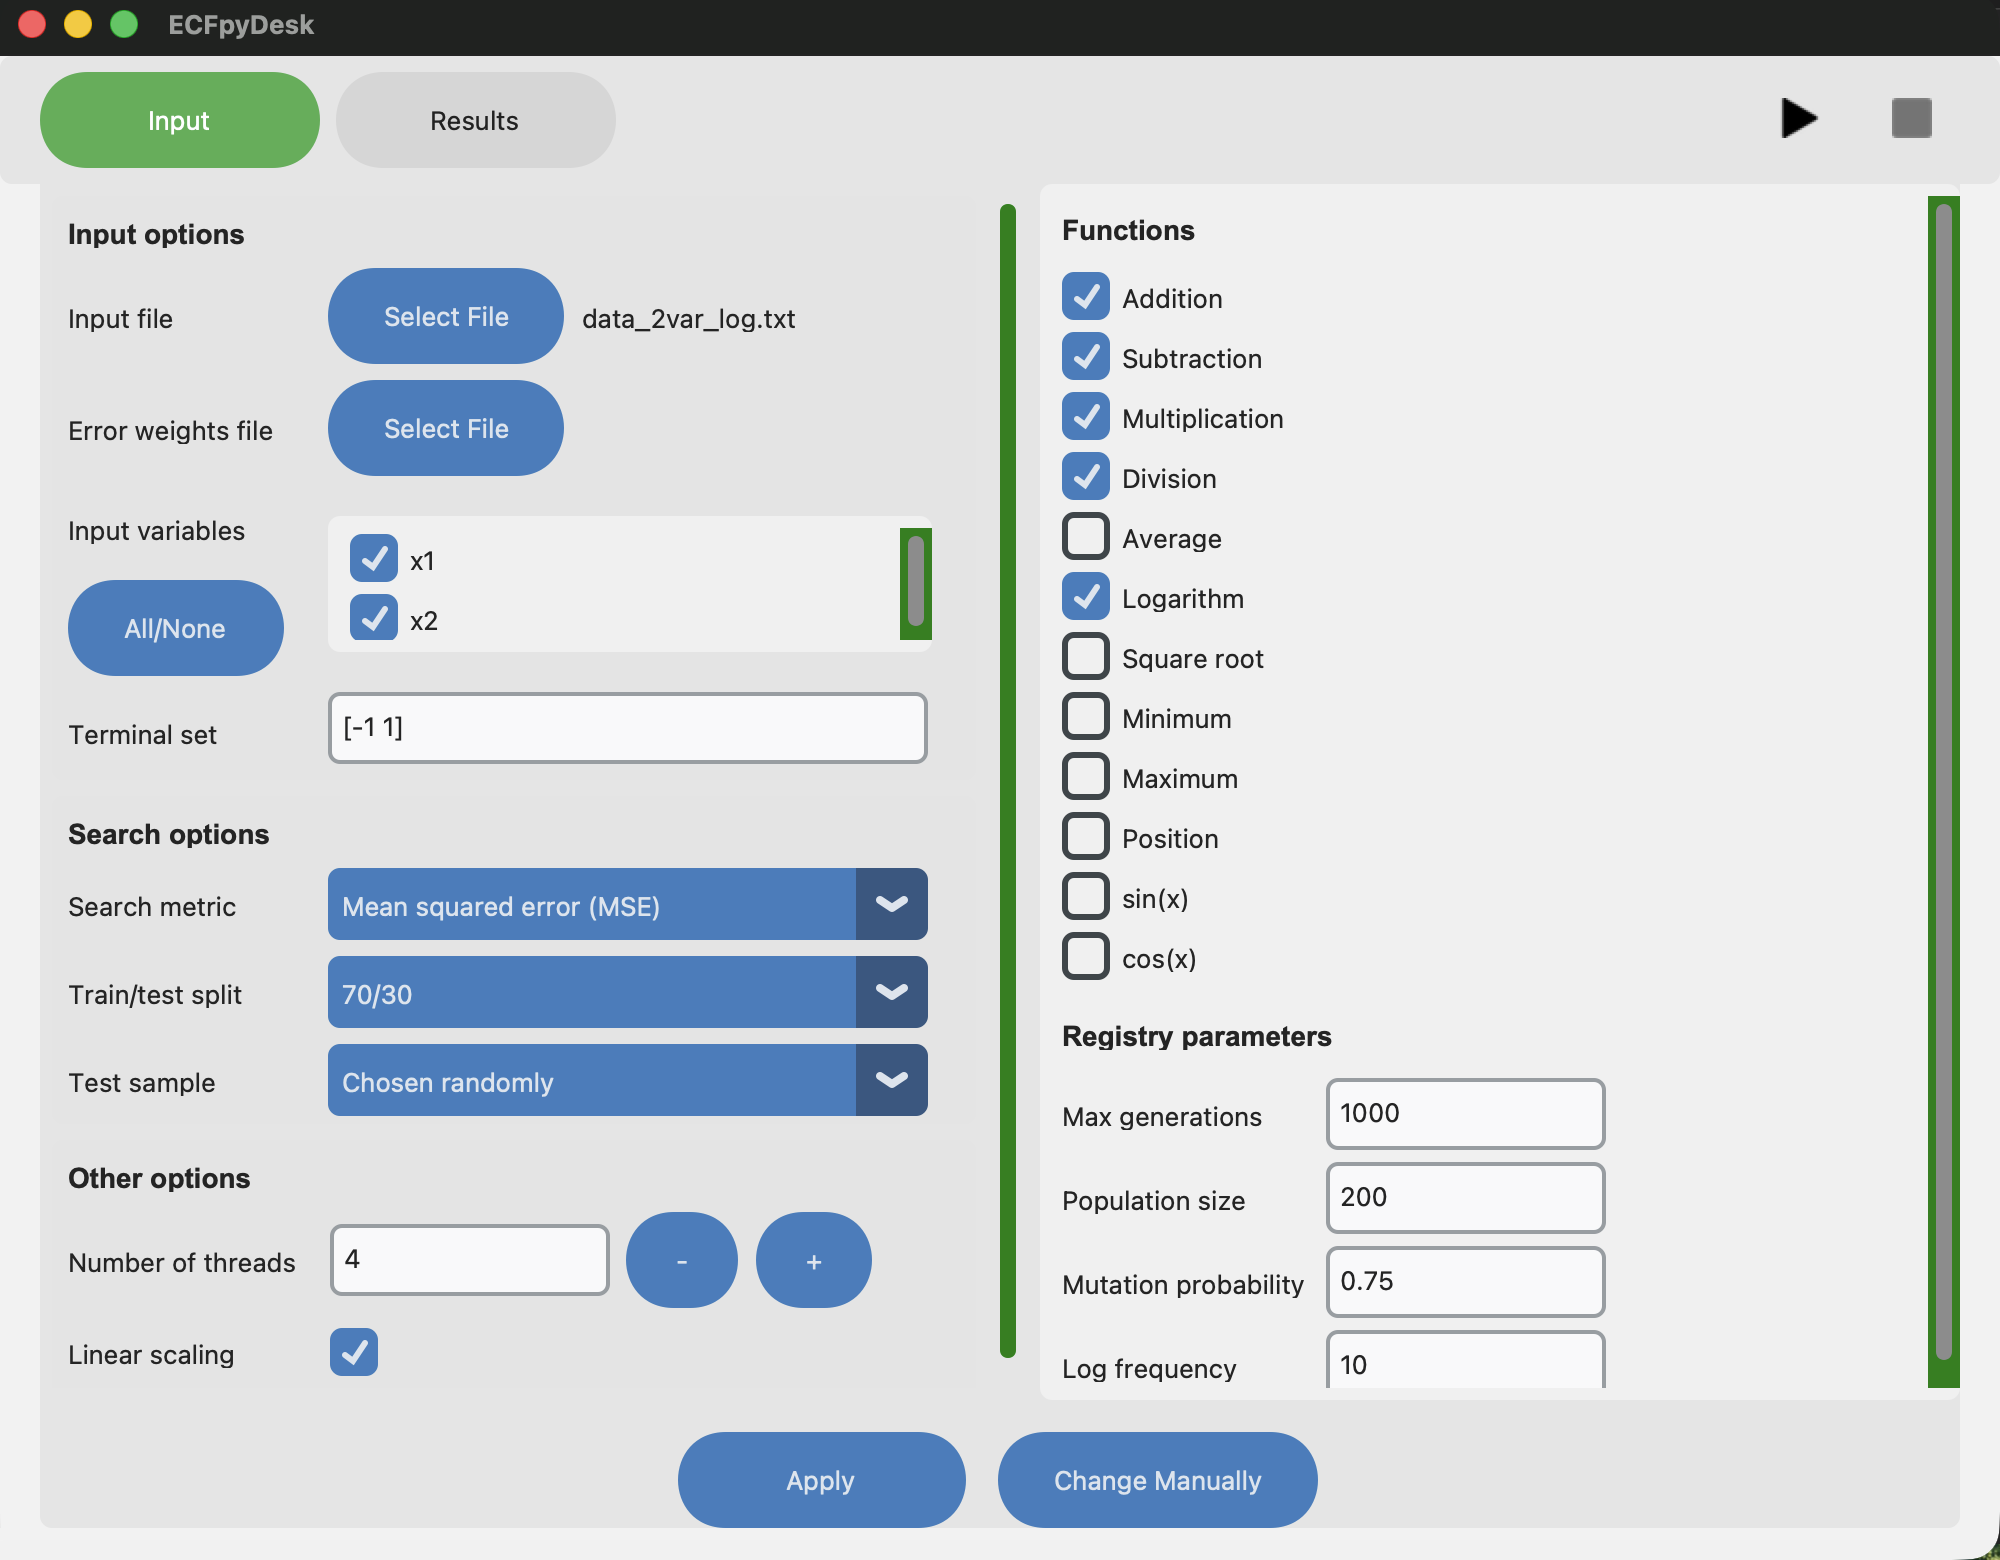
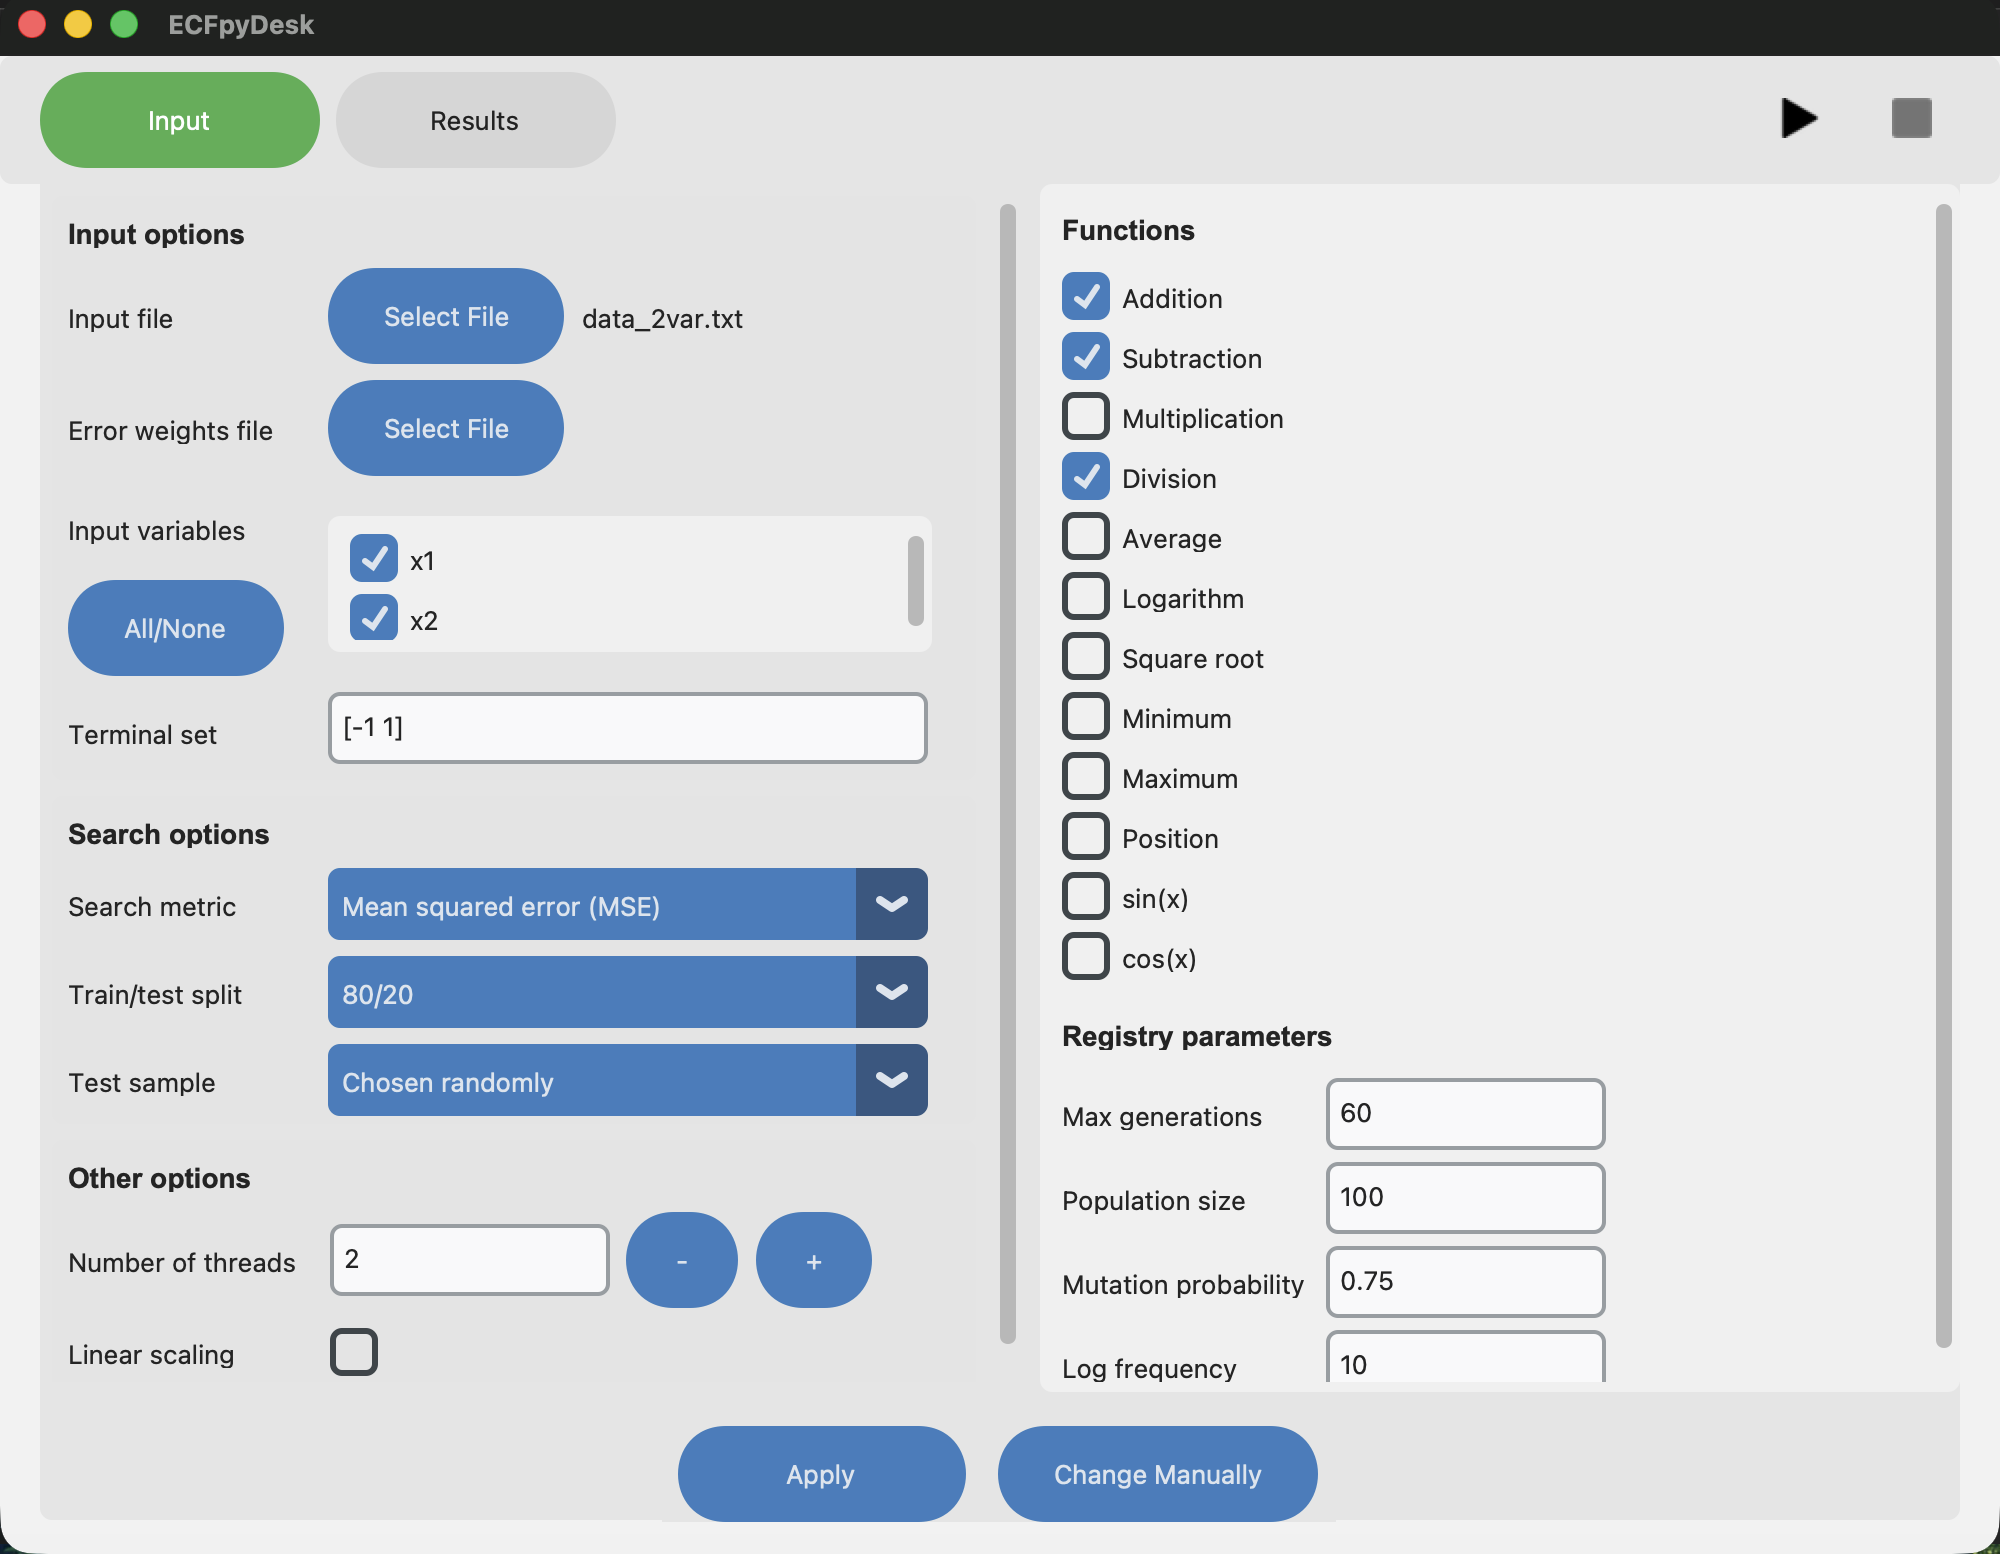
Docs: retake images on a harder setup; soften the scrollbar track

diff --git a/views/input.py b/views/input.py
@@ -33,7 +33,7 @@ class InputView(BaseView):
         self.grid_rowconfigure(3, weight=1)      # and the spare height
         # The cards sit in a scrollable column so the screen stays usable in a small window
         self.left_column = ctk.CTkScrollableFrame(self, width=470, height=200, fg_color="transparent",
-                                                  scrollbar_button_color=self.SCROLLBAR_COLOR)
+                                                  scrollbar_button_color=self.SCROLLBAR_COLOR, scrollbar_button_hover_color=self.SCROLLBAR_HOVER)
         self.left_column.grid(row=0, column=0, rowspan=4, sticky="ns", padx=(0, self.PAD), pady=(0, self.PAD))
         self.left_column.grid_columnconfigure(0, weight=1)
 
@@ -74,7 +74,7 @@ class InputView(BaseView):
         button = self.create_button(frame, "All/None", self.toggle_variables, tooltip="all_none")
         button.grid(row=start_row+1, column=0, sticky='nw', padx=self.PAD, pady=self.PAD // 2)
 
-        self.terminal_scroll_frame = ctk.CTkScrollableFrame(frame, width=self.DROPDOWN_WIDTH - 20, height=56, scrollbar_fg_color=self.SCROLLBAR_COLOR, fg_color=self.LIST_COLOR)
+        self.terminal_scroll_frame = ctk.CTkScrollableFrame(frame, width=self.DROPDOWN_WIDTH - 20, height=56, scrollbar_fg_color="transparent", scrollbar_button_color=self.SCROLLBAR_COLOR, scrollbar_button_hover_color=self.SCROLLBAR_HOVER, fg_color=self.LIST_COLOR)
         self.terminal_scroll_frame._scrollbar.configure(height=0)
         self.terminal_scroll_frame.grid(row=start_row, column=1, rowspan=2, sticky="w", padx=self.PAD, pady=self.PAD // 2)
         add_tooltip(variables_label, "variables")
@@ -112,7 +112,7 @@ class InputView(BaseView):
             self.setup_dropdown(frame, variable_name, label, choices, idx+1, 1)
 
     def setup_parameters_scroll_area(self):
-        self.scroll_frame = ctk.CTkScrollableFrame(self, width=300, height=300, scrollbar_fg_color=self.SCROLLBAR_COLOR, fg_color=self.LIST_COLOR)
+        self.scroll_frame = ctk.CTkScrollableFrame(self, width=300, height=300, scrollbar_fg_color="transparent", scrollbar_button_color=self.SCROLLBAR_COLOR, scrollbar_button_hover_color=self.SCROLLBAR_HOVER, fg_color=self.LIST_COLOR)
         self.scroll_frame.grid(row=0, column=1, rowspan=4, sticky="nsew", pady=(0, self.PAD))
         self.scroll_frame.grid_columnconfigure(0, weight=0)
         self.scroll_frame.grid_columnconfigure(1, weight=1)

diff --git a/views/results.py b/views/results.py
@@ -53,7 +53,7 @@ class ResultsView(BaseView):
             self.header_frame.columnconfigure(i, weight=self.COLUMN_WEIGHTS[i], uniform="Silent_Creme")
 
         # Setup scrollable list frame for displaying solutions
-        self.solutions_list_frame = ctk.CTkScrollableFrame(self.solutions_master_frame, width=300, height=200, scrollbar_fg_color=self.SCROLLBAR_COLOR, fg_color=self.LIST_COLOR)
+        self.solutions_list_frame = ctk.CTkScrollableFrame(self.solutions_master_frame, width=300, height=200, scrollbar_fg_color="transparent", scrollbar_button_color=self.SCROLLBAR_COLOR, scrollbar_button_hover_color=self.SCROLLBAR_HOVER, fg_color=self.LIST_COLOR)
         self.solutions_list_frame.grid(row=1, column=0, sticky="nsew", padx=self.PAD, pady=(0, self.PAD))
         for i, weight in enumerate(self.COLUMN_WEIGHTS):
             self.solutions_list_frame.grid_columnconfigure(i, weight=weight, uniform="Silent_Creme")

diff --git a/views/base.py b/views/base.py
@@ -84,7 +84,8 @@ class BaseView(ctk.CTkFrame, Publisher):
     ENTRY_WIDTH = 140
     CARD_COLOR = "#e4e4e4"
     LIST_COLOR = "#f0f0f0"
-    SCROLLBAR_COLOR = "#008000"
+    SCROLLBAR_COLOR = "#b8b8b8"   # the handle; the track is transparent, so it blends with its frame
+    SCROLLBAR_HOVER = "#9a9a9a"
 
     def __init__(self, parent):
         ctk.CTkFrame.__init__(self, parent)

diff --git a/docs/user-guide.md b/docs/user-guide.md
@@ -73,18 +73,18 @@ The folder `srm/` has three sample files:
 | `data_2var.txt` | `x1`, `x2` | `x1 * x2` |
 | `data_2var_log.txt` | `x1`, `x2` | `log(x1) / log(x2)` |
 
-We use `data_2var_log.txt`: 15 rows, small enough to run fast, and not trivial. (In the packaged app, the sample data is inside the app bundle; you can also copy the file from the repository. Any file in the format above works.)
+We use `data_2var.txt`: 100 rows, target `x1 * x2`. To make the search interesting we take away the easy answer: the pictures below come from a deliberately hard setup in which multiplication is switched off, so no expression can reproduce the data exactly and the Pareto front shows a real trade-off. (With multiplication available, this sample is easy, and so is the 15-row `data_2var_log.txt`: both get an exact answer within seconds.) In the packaged app, the sample data is inside the app bundle; you can also copy the files from the repository. Any file in the format above works.
 
 ### Step 1: set up the Input screen
 
 ![The Input screen](images/input.png)
 
-1. **Input file → Select File**, and pick `data_2var_log.txt`. The file name appears next to the button, and one checkbox per variable (`x1`, `x2`) appears under **Input variables**. Both are ticked.
+1. **Input file → Select File**, and pick `data_2var.txt`. The file name appears next to the button, and one checkbox per variable (`x1`, `x2`) appears under **Input variables**. Both are ticked.
 2. **Terminal set** holds the constants an expression may use besides the ticked variables. `[-1 1]` means random constants between -1 and 1. Leave it.
-3. **Search options.** Leave **Search metric** on mean squared error. Set **Train/test split** to **70/30**: the search sees 70% of the rows, and the remaining 30% (the *test set*) is kept to judge the results. **Test sample → Chosen randomly** picks those rows at random.
-4. **Number of threads** is the number of SRM processes that run side by side, each searching on its own. Set it to the number of CPU cores you want to use (the **+** button stops at the number your machine has).
-5. On the right, under **Functions**, tick the operations expressions may use. The defaults (addition, subtraction, multiplication, division, logarithm) are what this data needs. Under **Registry parameters** are the search settings: **Max generations**, **Population size**, **Mutation probability** and **Log frequency**. A smaller population makes a run faster but less thorough.
-6. Leave **Linear scaling** on. It fits a scale and an offset to every expression, so you see expressions such as `0.33 + -0.33 * (...)`. It needs addition and multiplication in the function set, and the app tells you if they are missing.
+3. **Search options.** Leave **Search metric** on mean squared error. Set **Train/test split** to **80/20**: the search sees 80% of the rows, and the remaining 20% (the *test set*) is kept to judge the results. **Test sample → Chosen randomly** picks those rows at random.
+4. **Number of threads** is the number of SRM processes that run side by side, each searching on its own. Set it to 2 here (the **+** button stops at the number of cores your machine has).
+5. On the right, under **Functions**, tick the operations expressions may use. For this walkthrough, untick **Multiplication** and **Logarithm**, leaving addition, subtraction and division. Under **Registry parameters** are the search settings: set **Max generations** to 60 and **Population size** to 100, a small and quick search. For a real problem, keep the defaults or go larger.
+6. Untick **Linear scaling**. It needs addition and multiplication, so with multiplication off the app would refuse to start a run until you do. With it on, every expression is wrapped as `offset + factor * (...)`, which fits a scale and an offset for free; with it off you see the raw expressions as in the pictures.
 
 **Apply** saves what is on screen as the starting point for the next launch. You do not have to press it: a run always uses what is on screen. **Change Manually** swaps the screen for the raw parameter file (XML), for options the screen does not list; **Save** keeps your edit, **Back** returns.
 
@@ -99,13 +99,13 @@ Press the **play** button at the top right. The app starts the processes (each d
 - **Pause** (the same button, now showing two bars) freezes all processes, and the same button continues them.
 - **Stop** (the square) ends the run. Starting again clears the results.
 
-A process that finishes its generations starts again by itself, so results keep improving until you press Stop. This sample is easy: an exact answer, `log(x1) / log(x2)`, usually appears within seconds.
+A process that finishes its generations starts again by itself, so results keep improving until you press Stop. In this setup the front improves over the first half minute and then creeps.
 
 ### Step 3: read the results
 
 ![The Results screen with the test data shown](images/results.png)
 
-The first rows are the Pareto front at a glance: a size-8 expression with error 0.87, then the exact `log(x1) / log(x2)` at size 9 with error 0.0000 (the screen shows four decimals; the real error is far smaller). Larger rows are the same answer in more complicated clothes. The next section explains each part.
+The front runs from `-0.531186` (a single constant, error 0.1928) to a size-19 expression with error 0.0728: each step up in size buys a smaller error, with diminishing returns. The chosen row (size 11, error 0.0988, measured on the test rows) is plotted against `x1`, with the data in blue and the expression in red. Where only red is visible, the expression hits the data. The next section explains each part. Your own run will show different numbers: searches are random.
 
 ## 4. Reading the results
 
@@ -132,7 +132,7 @@ The plot is drawn from values computed by SRM itself, so it shows exactly what t
 | **Plot scale** | **Regular**, **log y**, **log x**, **log x and log y** (log scales need positive values) |
 | **Show Test Data** | tick to plot the test rows instead of the training rows (appears when you chose a split) |
 
-With the target plotted, blue dots hidden under red ones mean the expression fits there. The residual plot makes small misses visible:
+With the target plotted, a blue dot hidden under a red one means the expression fits there; a gap between them is a miss. The residual plot shows the misses directly, as data minus expression:
 
 ![Residual error on the test data](images/results-residual.png)
 
@@ -141,7 +141,7 @@ With the target plotted, blue dots hidden under red ones mean the expression fit
 - Run the search for a while, then look at the front: expressions that appear repeatedly at the same size are likely real structure, not luck.
 - If the front has many nearly equal errors, compare the sizes: the smallest one with a good error is usually the best explanation.
 - More threads means more independent searches, so a better front for the same waiting time.
-- Linear scaling shows up as a constant and a factor wrapped around the expression, for example `-4.15698e-07 + 1.00001 * (log(x1) / log(x2))`. Read it as "`log(x1) / log(x2)`, with a scale of about 1 and an offset of about 0".
+- With linear scaling on, every expression is shown wrapped in an offset and a factor, for example `-4.15698e-07 + 1.00001 * (log(x1) / log(x2))`. Read it as "`log(x1) / log(x2)`, with a scale of about 1 and an offset of about 0".
 
 ## 5. Settings reference
 
